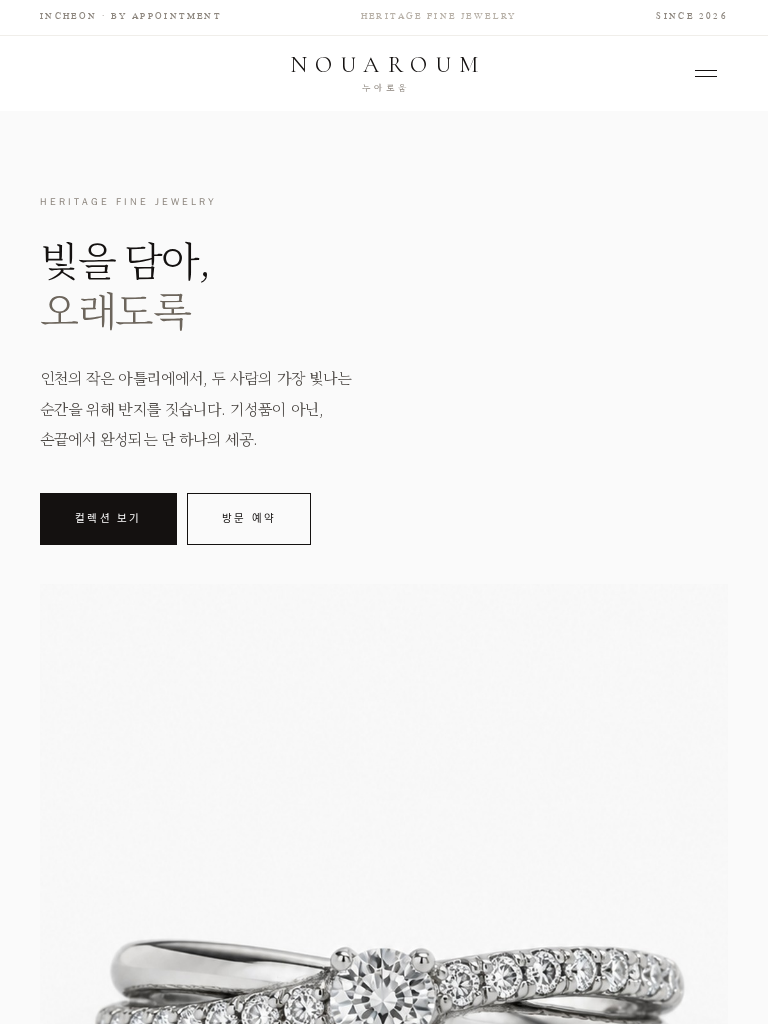
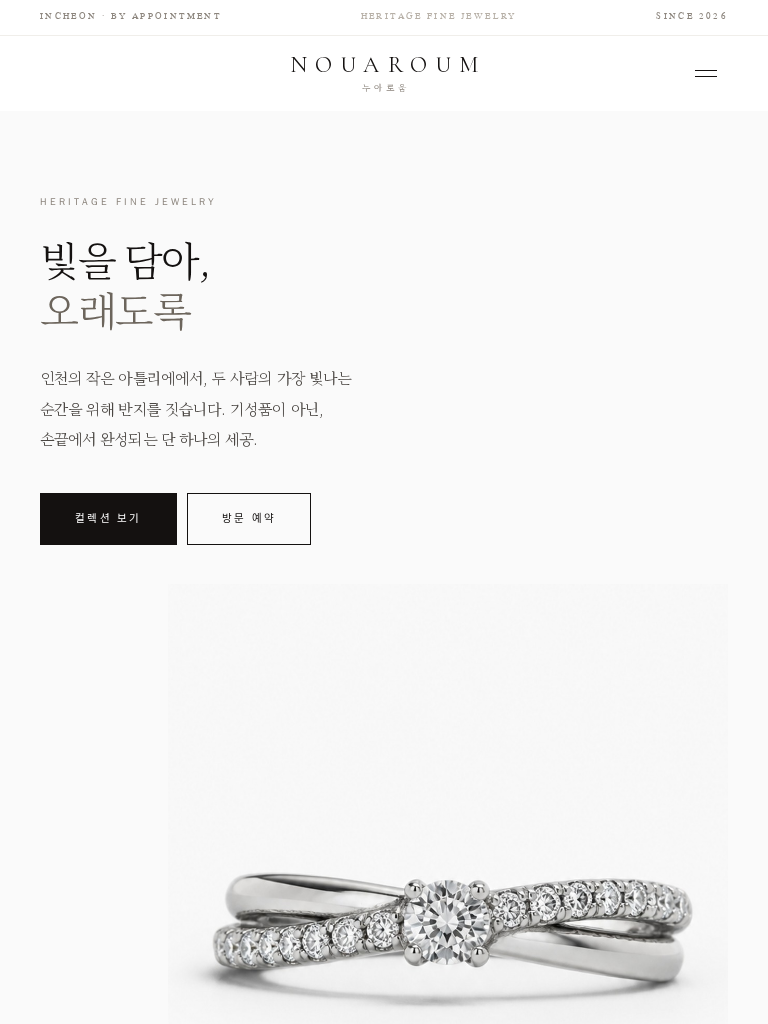
태블릿 히어로 이미지 높이 제한(76svh) 및 캡처 갱신

Changed region(s): [[0.125, 0.8438, 0.9062, 1.0]]

diff --git a/styles.css b/styles.css
@@ -403,7 +403,7 @@ button{font:inherit;color:inherit;background:none;border:0;cursor:pointer}
   .hdr__logo{grid-column:2}
   .hero__inner{grid-template-columns:1fr;min-height:0;padding-top:clamp(18px,4vw,34px)}
   .hero__visual{justify-self:stretch;width:100%;order:2;margin-top:8px}
-  .hero__frame{max-height:none;aspect-ratio:4/5}
+  .hero__frame{max-height:min(76svh,700px);aspect-ratio:4/5}
   .hero__text{order:1;max-width:none}
   .story__grid{grid-template-columns:1fr}
   .story__visual{order:2}
